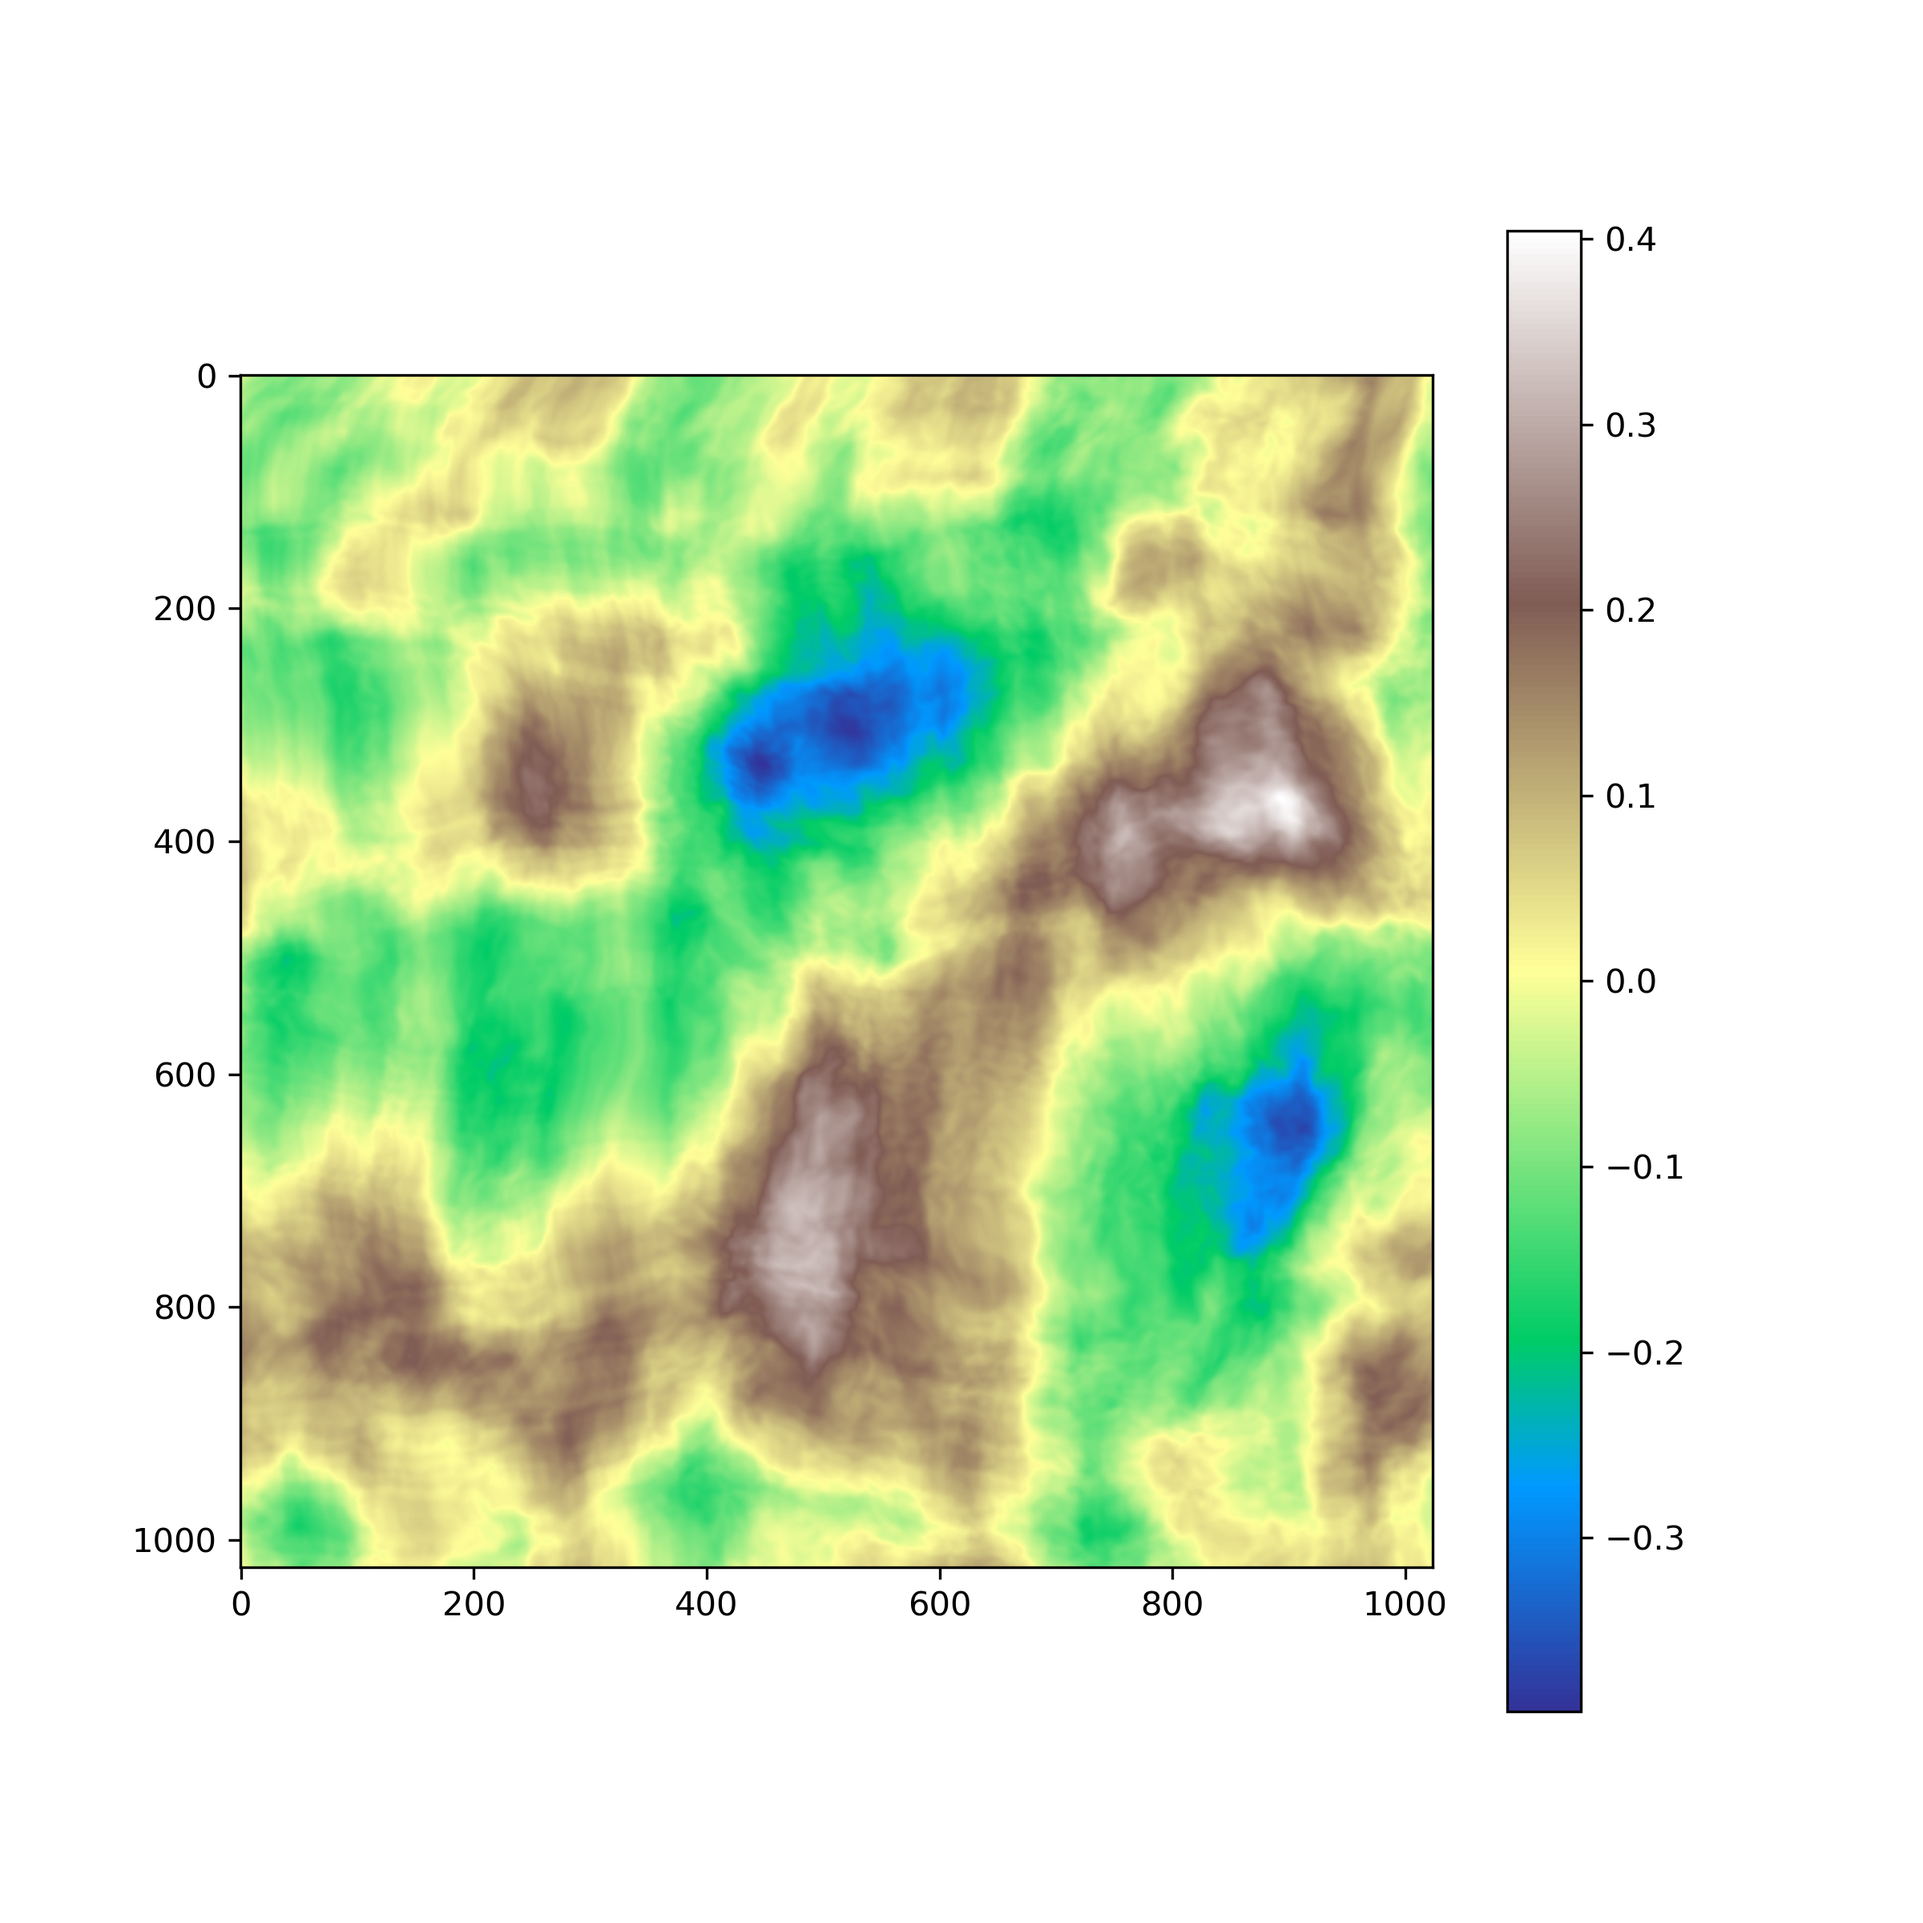
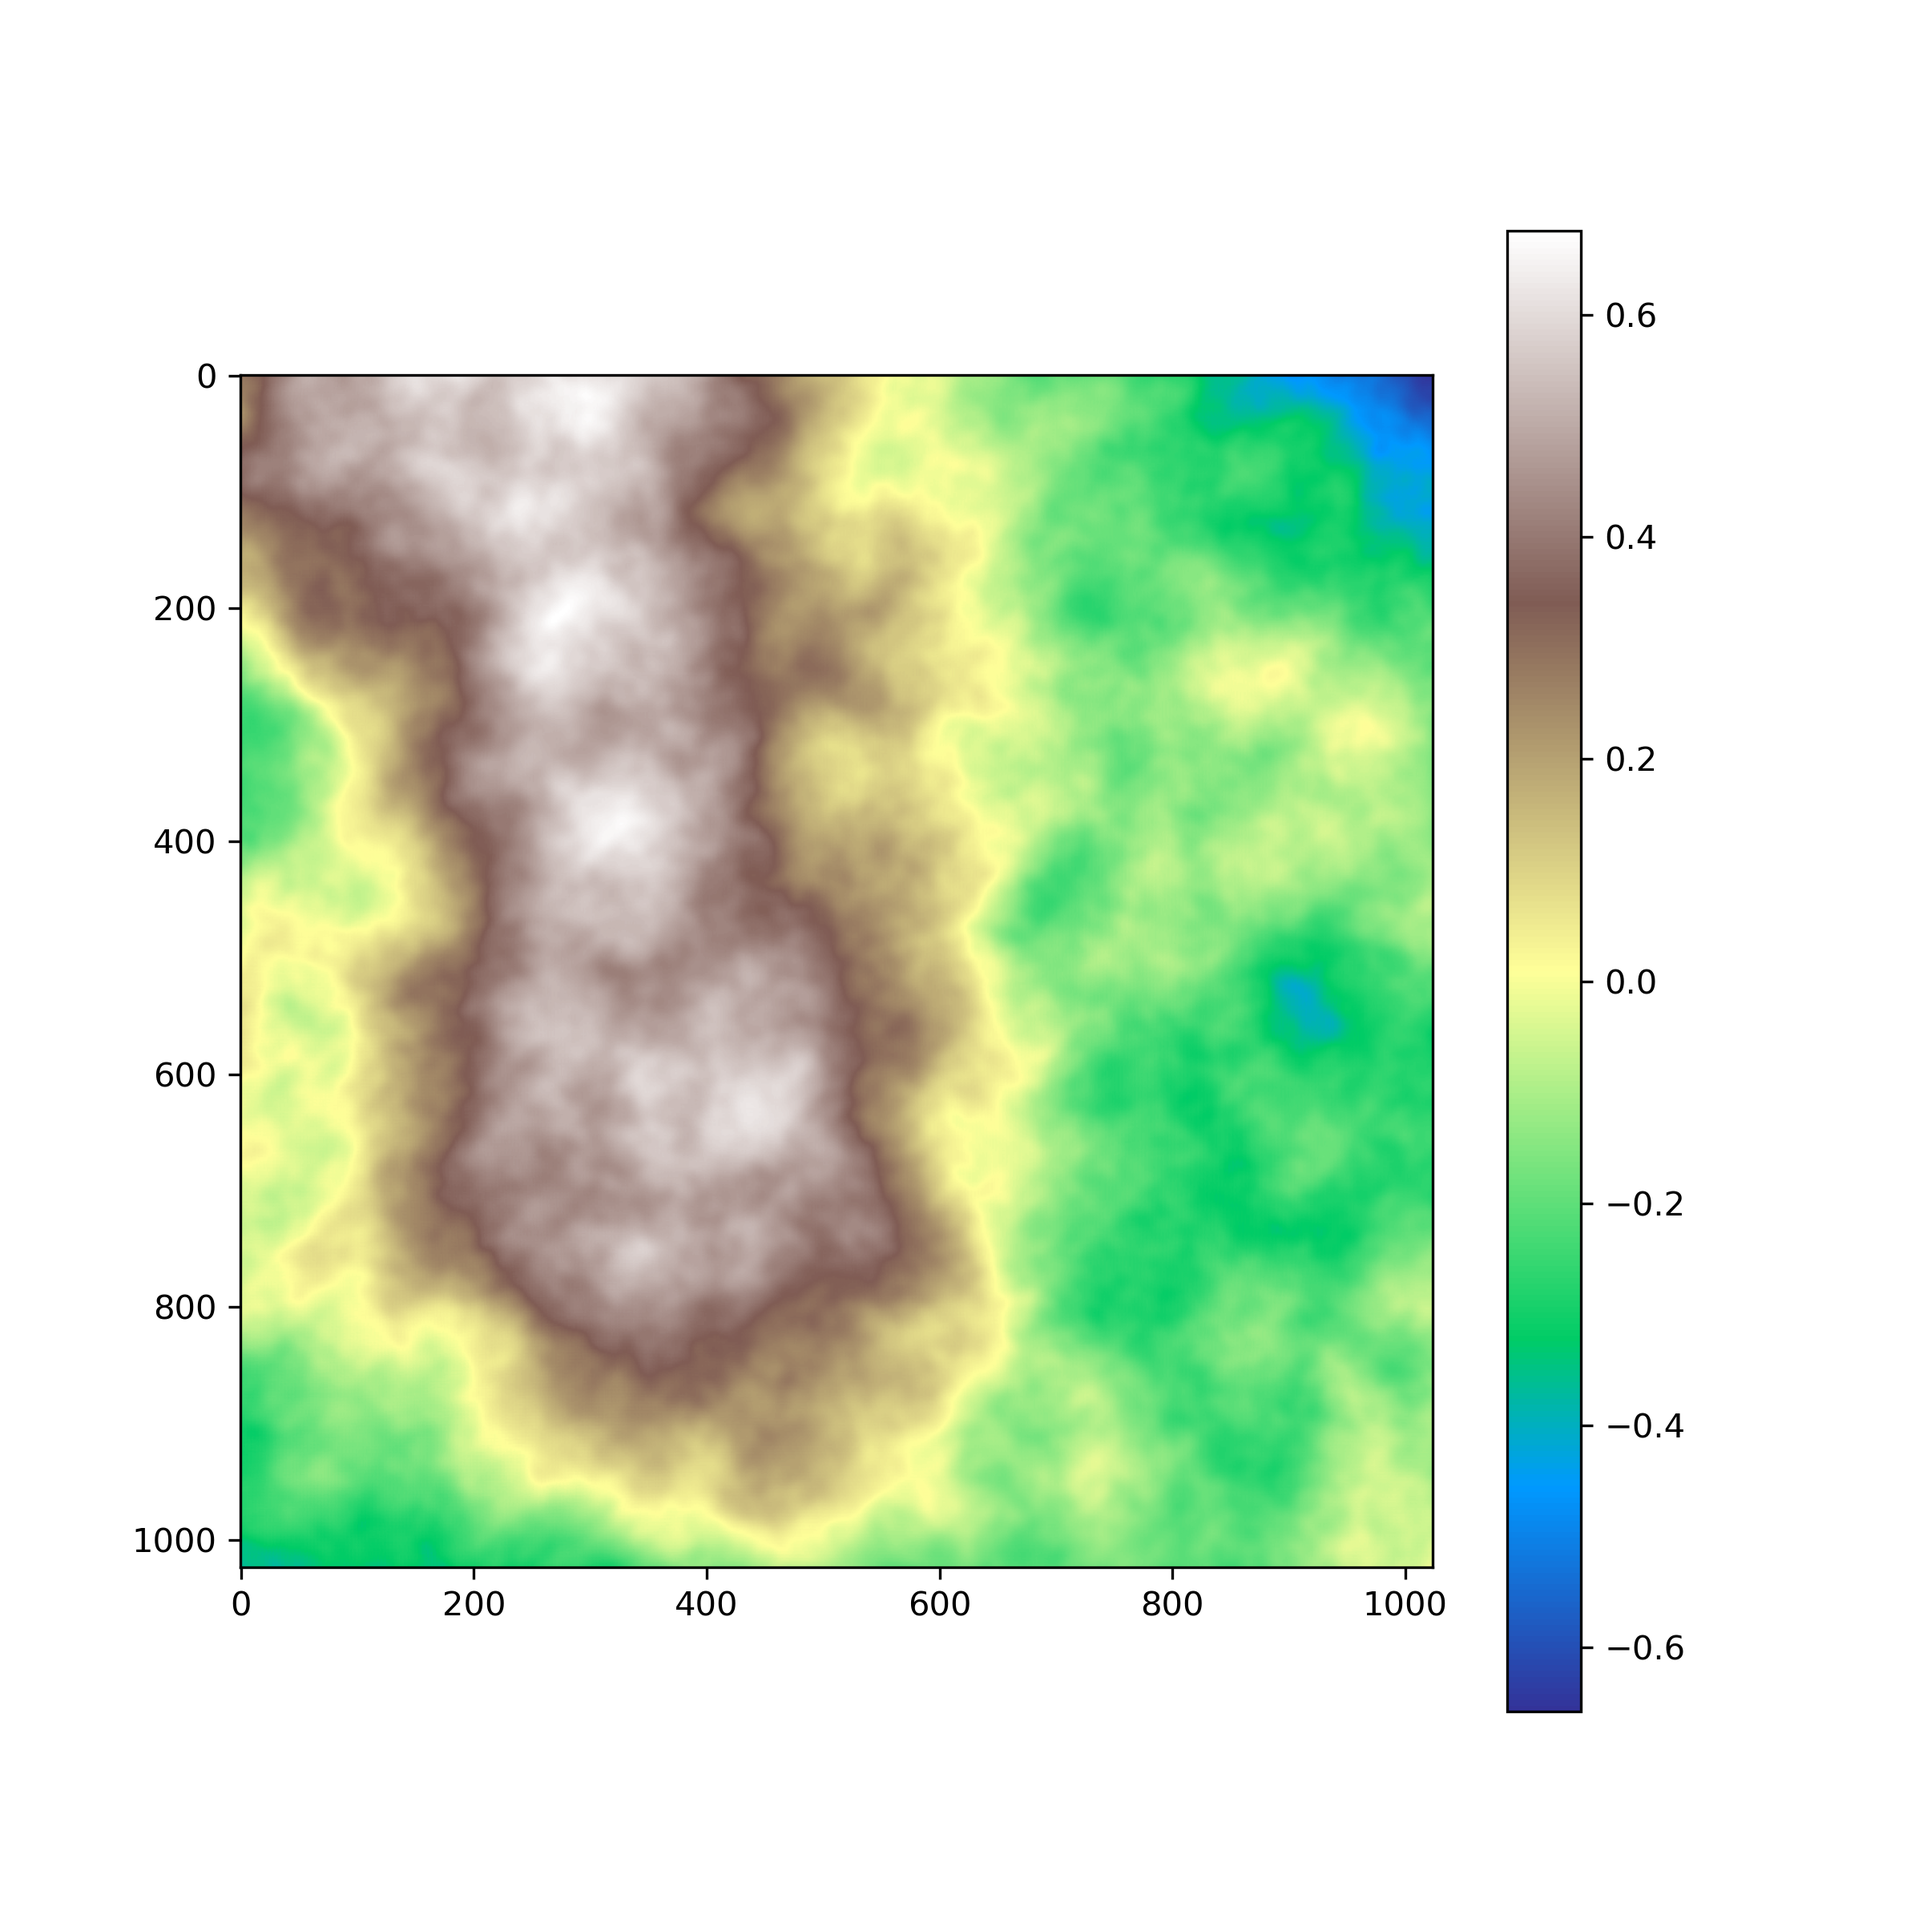
changed perlin to simplex noise

diff --git a/terrain.py b/terrain.py
@@ -1,25 +1,29 @@
 import numpy as np
 import matplotlib.pyplot as plt
-from noise import pnoise2
+from noise import snoise2
 from scipy.ndimage import gaussian_filter
 import cv2
 from typing import List,Tuple
 
 def create_terrain(rng:np.random.Generator)->np.ndarray:
-    size=1024
-    terrain=np.zeros((size,size))
-    bases=rng.integers(2**16,size=3,dtype=np.uint16)
+    bases=list(map(int,rng.integers(2**16-1,size=4,dtype=np.uint16)))
+    size = 1024
+    terrain = np.zeros((size, size), dtype=np.float32)
+    warp_freq = 1.2
+    warp_amp = 0.008
+    large_freq = 0.7
+    detail_freq = 4.5
     for y in range(size):
+        ny = (y + 0.5) / size
         for x in range(size):
-            nx=x/size
-            ny=y/size
-            wx=pnoise2(nx*3,ny*3,octaves=6,base=bases[0])
-            wy=pnoise2(nx*3+5,ny*3+5,octaves=6,base=bases[1])
-            nx2=nx+0.1*wx
-            ny2=ny+0.1*wy
-            elevation=pnoise2(nx2*3,ny2*3,octaves=6,base=bases[2])
-            terrain[y,x]=elevation
-    #terrain=gaussian_filter(terrain,4,mode="wrap")
+            nx = (x + 0.5) / size
+            wx = snoise2(nx * warp_freq + 17.3, ny * warp_freq - 8.1, octaves=2,base=bases[0])
+            wy = snoise2(nx * warp_freq - 23.7, ny * warp_freq + 11.4, octaves=2,base=bases[1])
+            nx2 = nx + warp_amp * wx
+            ny2 = ny + warp_amp * wy
+            large = snoise2(nx2 * large_freq + 31.1, ny2 * large_freq - 12.8, octaves=2,base=bases[2])
+            small = snoise2(nx2 * detail_freq - 7.4, ny2 * detail_freq + 22.6, octaves=4,base=bases[3])
+            terrain[y, x] = large + 0.2 * small
     return terrain
 
 def save_terrain(terrain:np.ndarray,
@@ -50,7 +54,7 @@ def save_terrain(terrain:np.ndarray,
 
 if __name__=="__main__":
     rng=np.random.default_rng(42)
-    seeds=rng.integers(2**16,size=4,dtype=np.uint16)
+    seeds=rng.integers(2**16,size=10,dtype=np.uint16)
     for seed in seeds:
         print("creating",seed,"...")
         terrain=create_terrain(rng)
